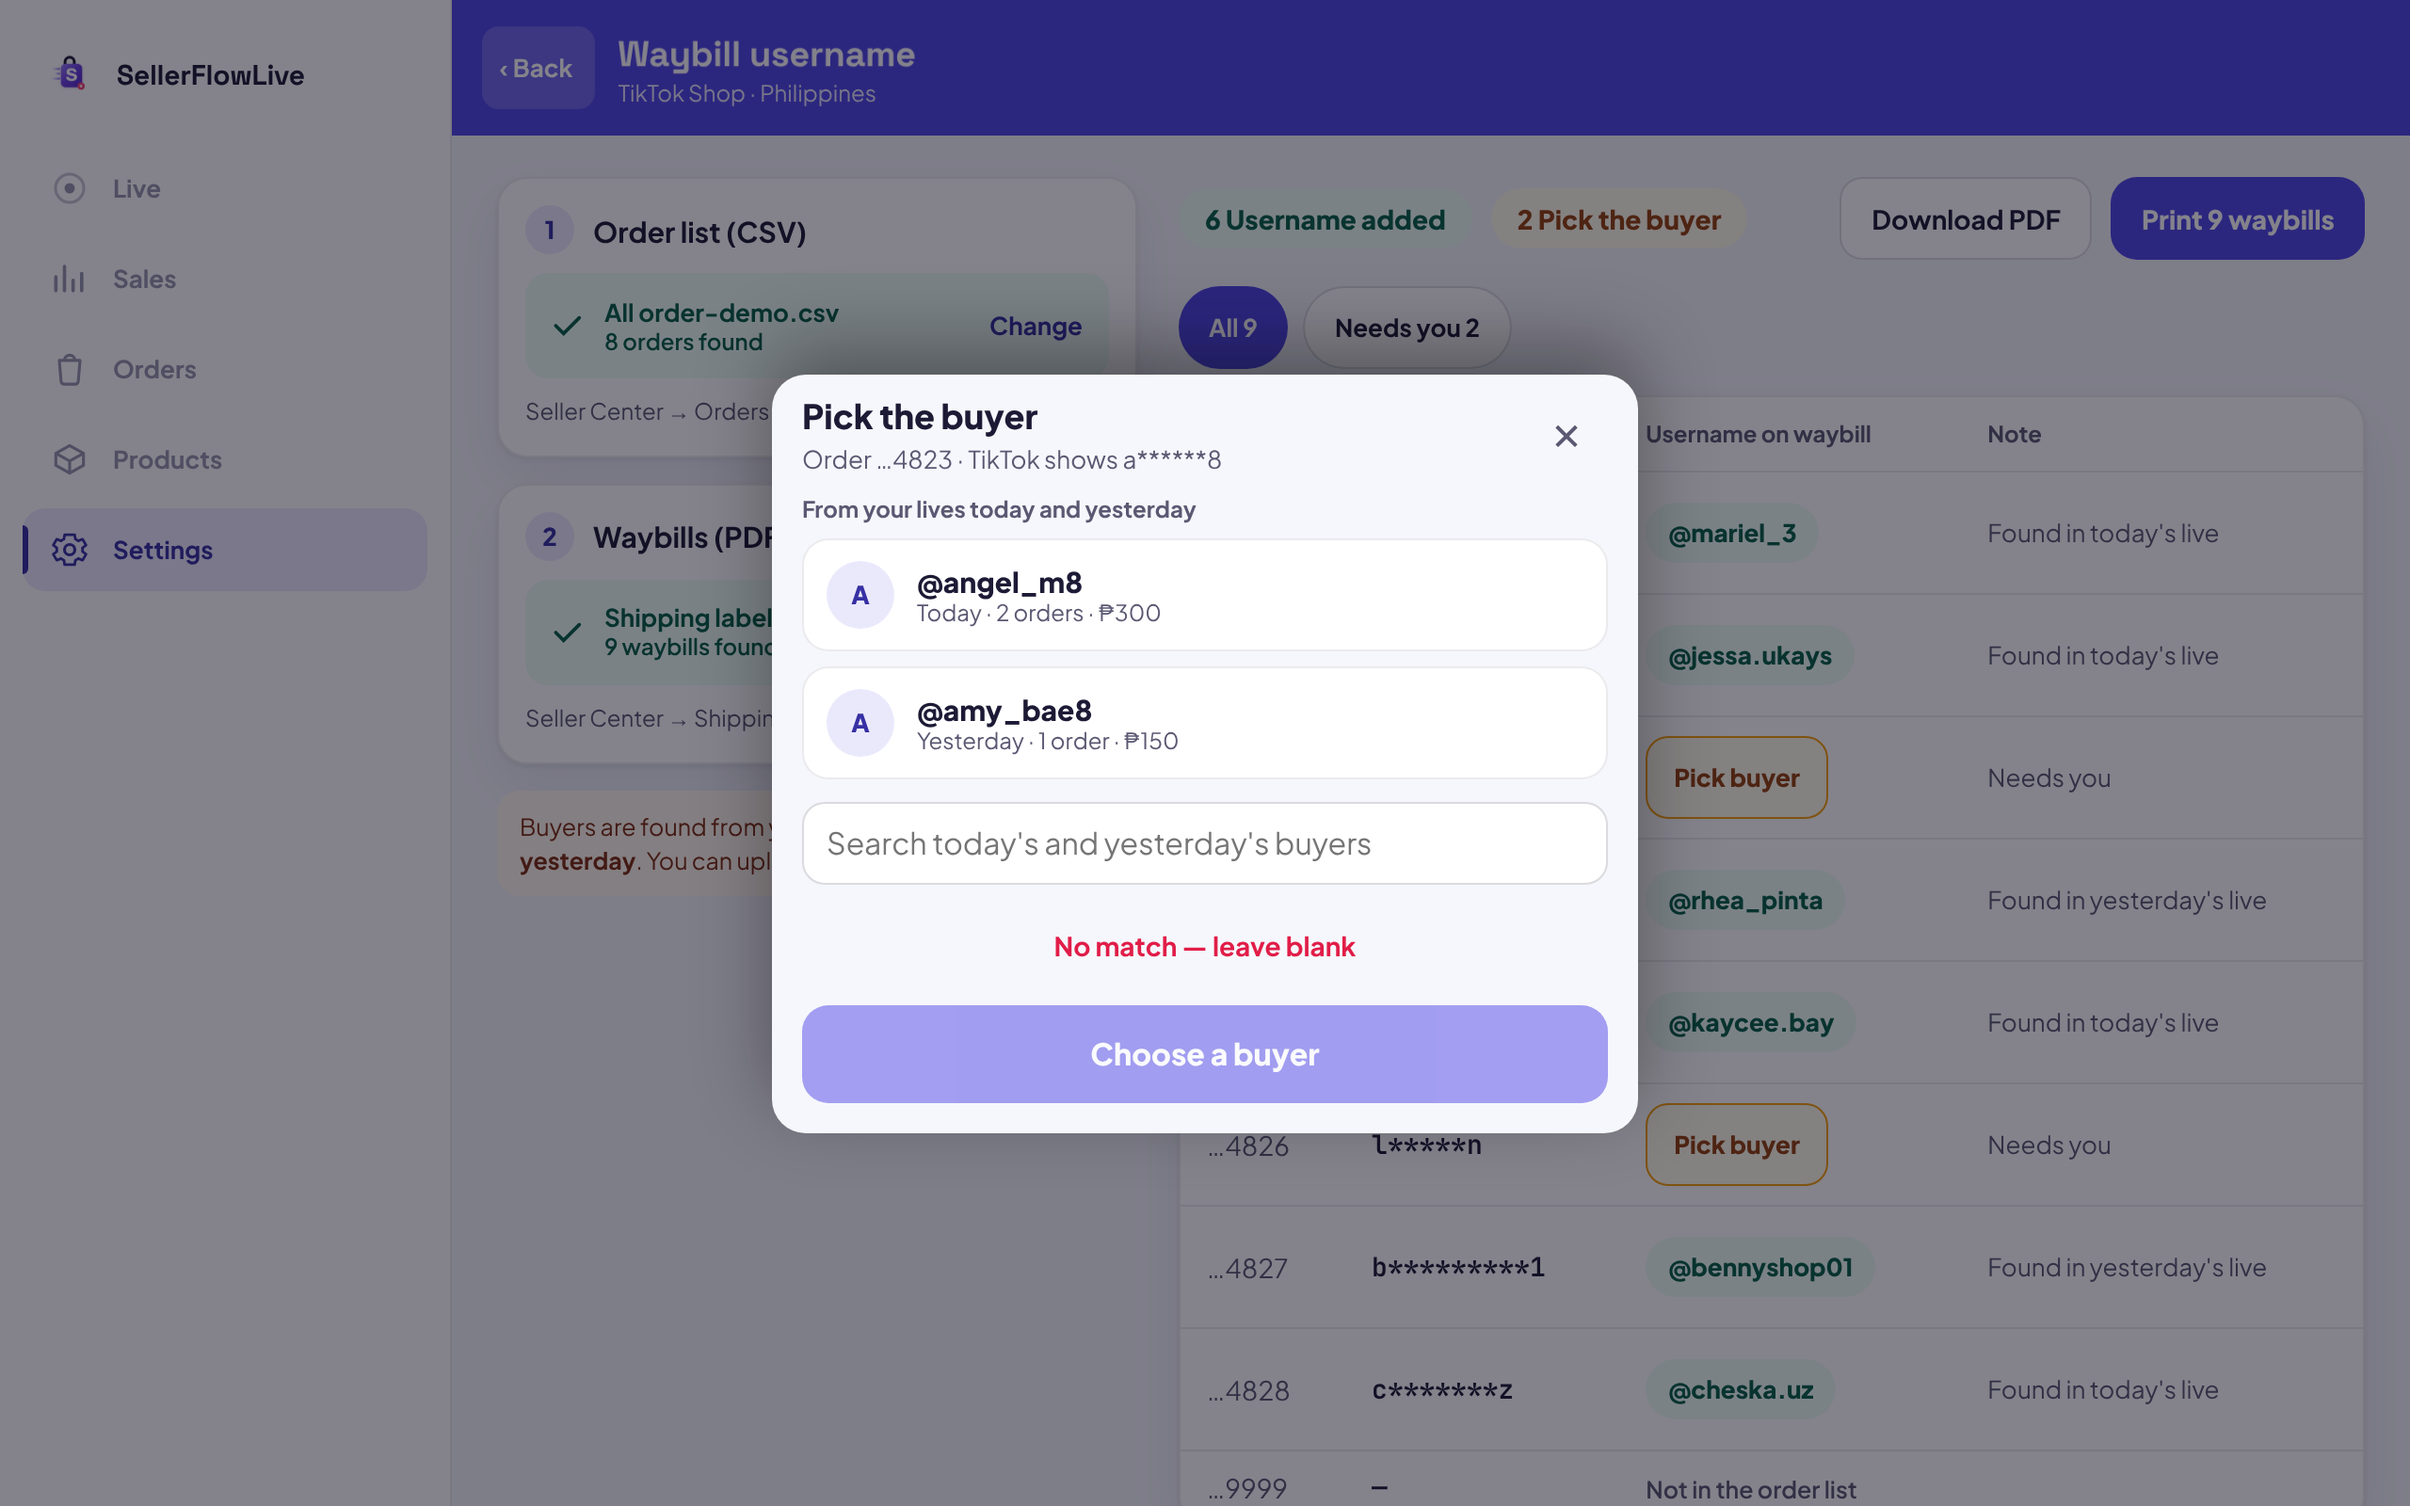
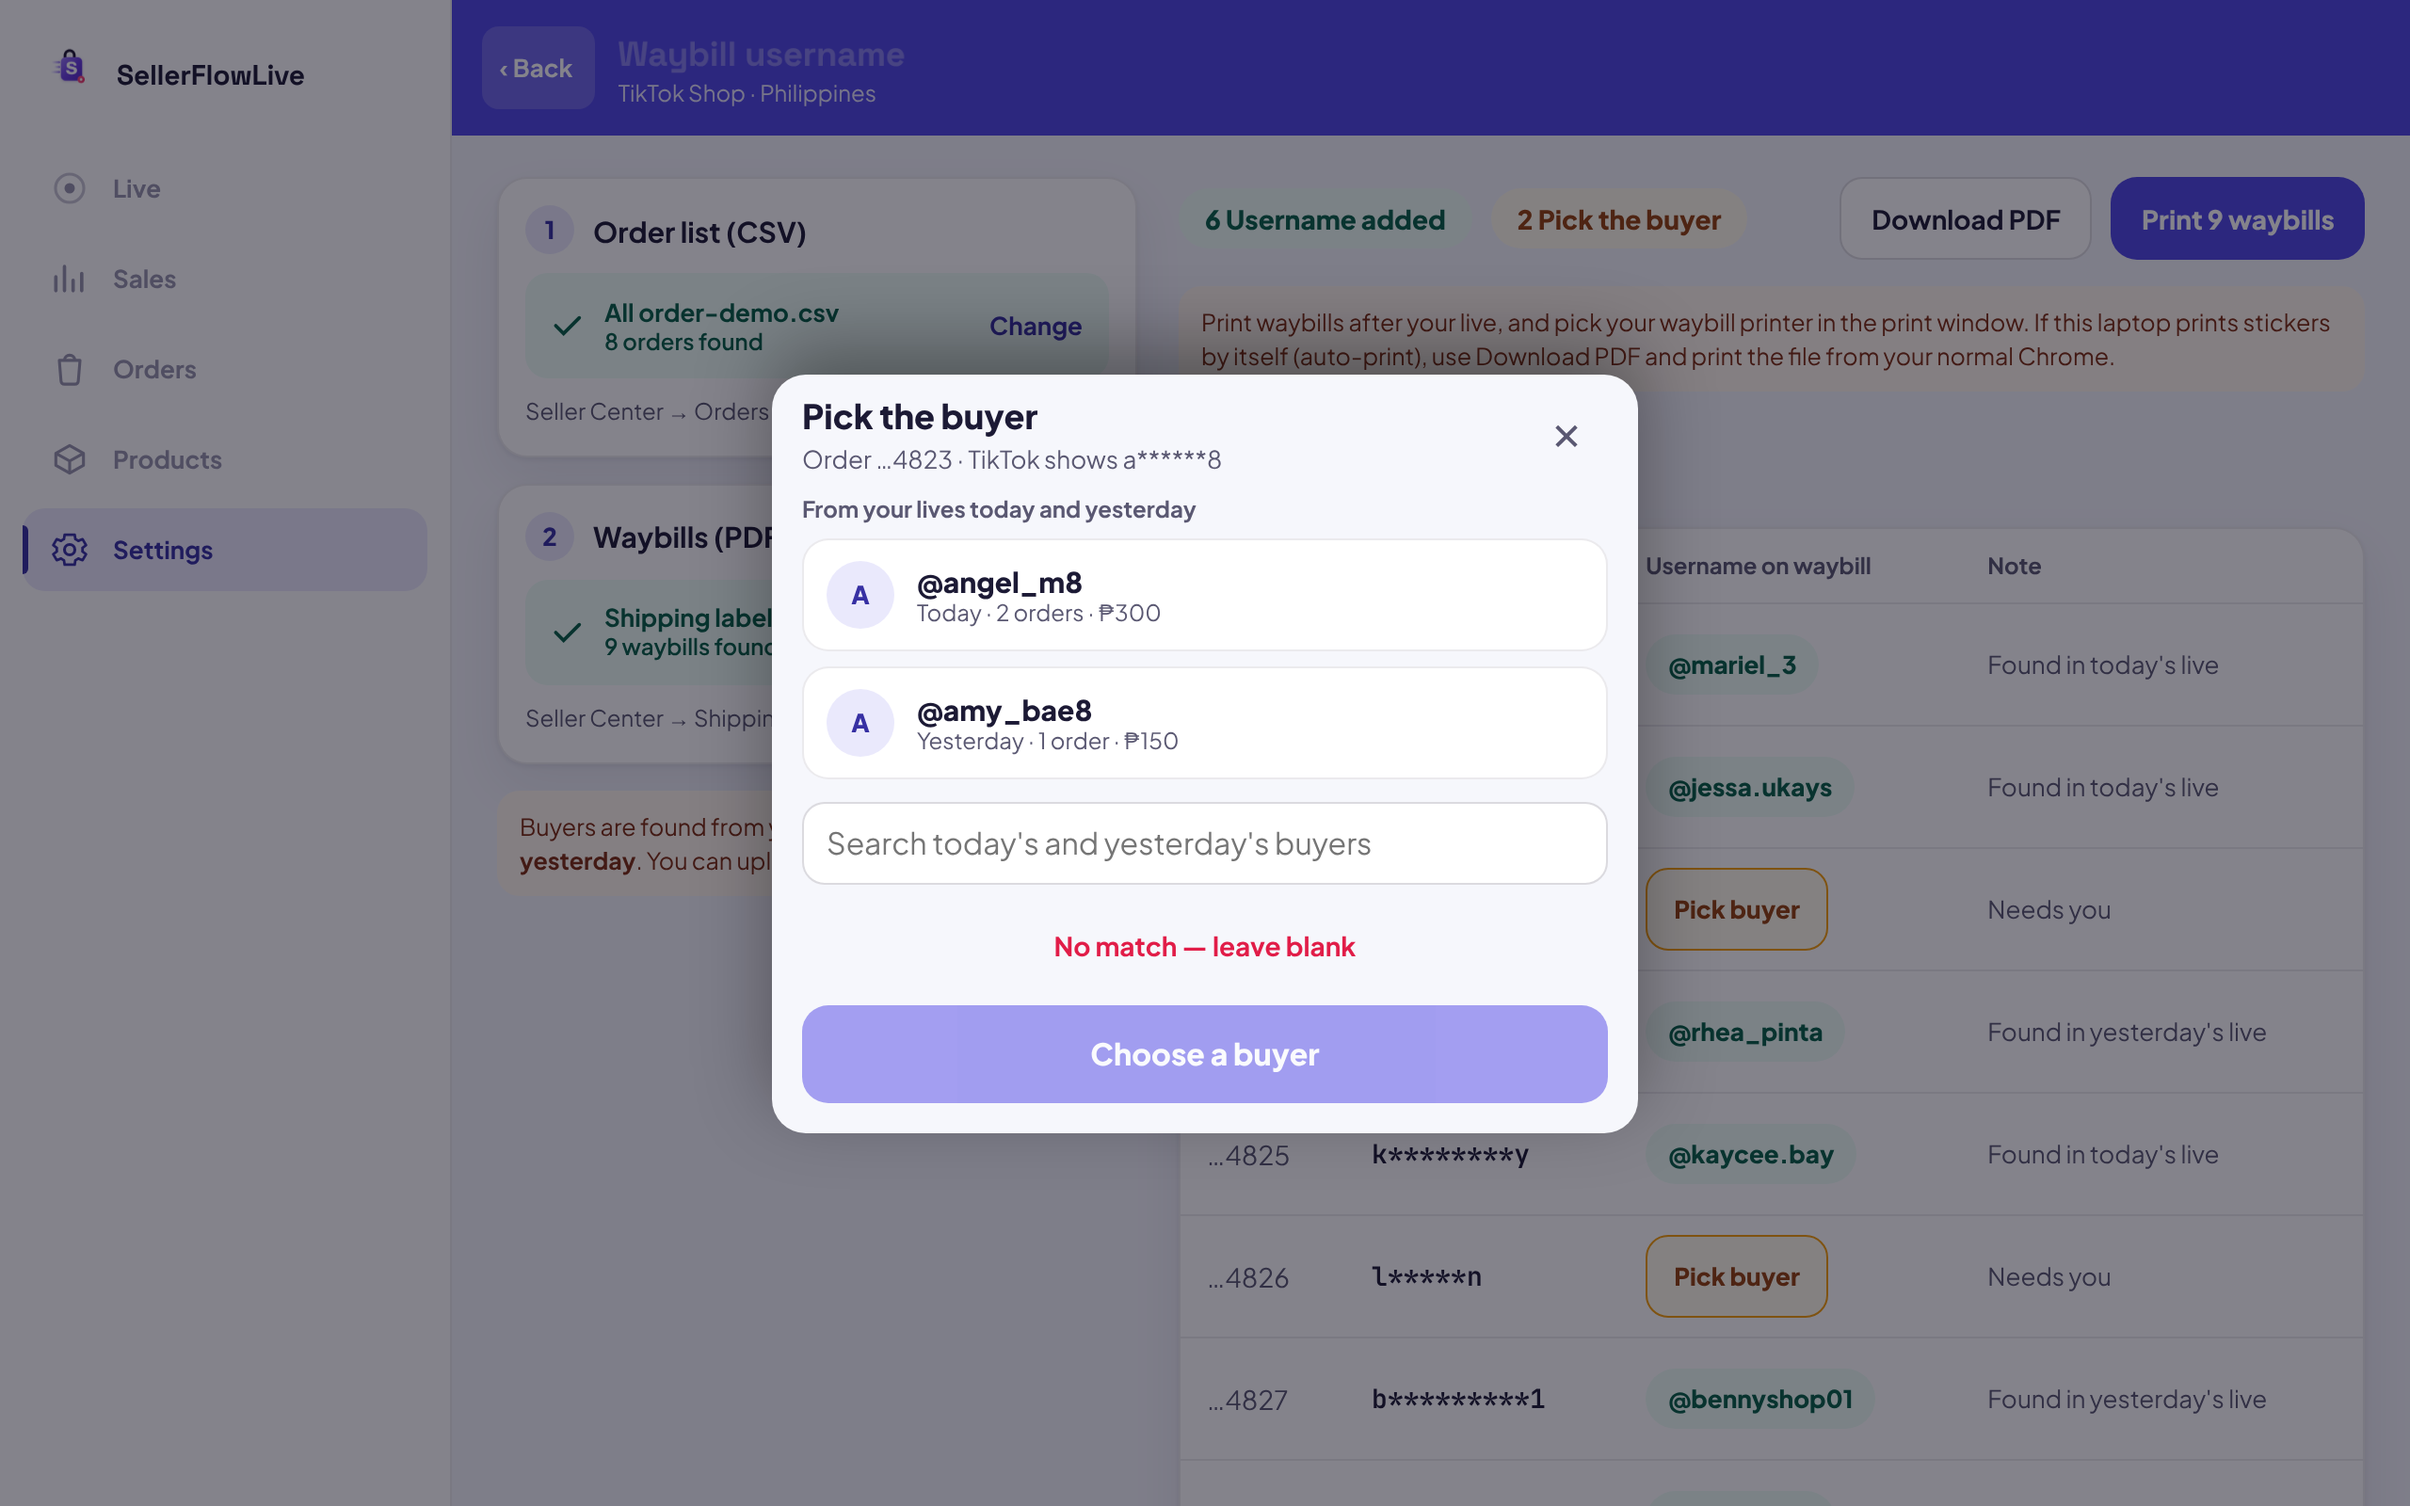
Waybill username: laptop pictures with the Print note, README + project notes
Claude-Session: https://claude.ai/code/session_016eKNVUUa7FKr6iSjbp2Upd

diff --git a/CLAUDE.md b/CLAUDE.md
@@ -7123,8 +7123,10 @@ Design approved by Jeff (claude.ai/artifact/JFCUgRNggFrpmVUa1rQeuz). The seller 
   All / Needs you chips, rows: green @username chip — tap to change — or amber Pick buyer) → "Pick the buyer" sheet (fitting buyers
   first, then a search over all of today's + yesterday's buyers, "No match — leave blank"). Phone: Download PDF = `deliverXlsmMobile`
   (share starts INSIDE the tap; bytes pre-built 250 ms after every change). Laptop (≥ 900 px): upload left / table right, "Print N
-  waybills" (`adapters/waybillOut.printPdf`: hidden iframe → print window, fallback new tab) + "Download PDF". Back on phone results
-  → upload step.
+  waybills" (`adapters/waybillOut.printPdf`: hidden iframe → print window, fallback new tab; one frame at a time; a 3 s double-tap
+  guard) + "Download PDF" + a note (print after the live; on an auto-print / kiosk laptop Print goes SILENTLY to the default =
+  sticker printer → use Download PDF there). No Print button inside the phone / tablet app (Download only). Back on phone results
+  → upload step. Reading a big PDF pauses every 4 pages (a live on the same phone keeps flowing).
 - **Matching (`adapters/waybillMatch.ts`):** TikTok's mask keeps first char + last char + length; every non-`*` position must match,
   case-insensitive, same length; only `*` = never. Candidates = OWN `live_session_orders` rows, platform TikTok, `session_date` in
   [yesterday, today] (Taipei day), ONE paged read (`fetchAllPages`, never partial) when the screen opens + "Try again". Exactly one
@@ -7148,6 +7150,9 @@ Design approved by Jeff (claude.ai/artifact/JFCUgRNggFrpmVUa1rQeuz). The seller 
 - **Fence:** `scripts/waybill-fence.mjs` + `__tests__/waybillUsername.fence.test.ts` (runs on this branch or WAYBILL_GATE=1): every
   printing / sticker / receipt / Bluetooth file, mobile/, server/, server.js, chrome-extension/ byte-identical to f8b90114 (575 files).
   PRINTING_MAP P15 has one line for this path.
+- **Changed on purpose in older tests:** the feature-key list (latest file = sql/231), the switch list, and the admin's 7-11
+  "Shipping" tile (backButton.app, build16.shippingSoon, market.test) — it is inside the SHIPPING group's screen now.
+  Breaks: `docs/design/waybill-username/proof/` (32 of 33; the BOM one can't fail — trim() removes U+FEFF too).
 - **Tests:** waybillCsv / waybillMatch / waybillRows / waybillPdf / waybillGate (adapters), WaybillUsername (screen, real files, the
   phone share inside the tap, the shared PDF read back), waybillUsername.app (real app: off = main for PH/TW/none/VN, PH, TW soon,
   admin + the 7-11 row). Fixtures: `adapters/__tests__/fixtures/waybillFixture.ts` (A6 J&T-shaped PDF, Type0 Identity-H + ToUnicode

diff --git a/docs/design/waybill-username/README.md b/docs/design/waybill-username/README.md
@@ -28,7 +28,9 @@ added the usernames, drawn by pdf.js: `stamped/demo-*.png` (the demo file: 7 use
 order list) and `stamped/long-*.png` (a short and a 24-character username — the long one is made smaller to stay on one line).
 
 ## Proof
-- `proof/breaks.txt` — every rule broken on purpose once; the tests must go red (`proof/breaks.py`).
+- `proof/breaks-run1.txt` + `proof/breaks-run2.txt` — every rule broken on purpose once; the tests must go red
+  (`proof/breaks.py`, `python3 docs/design/waybill-username/proof/breaks.py [words]` runs only matching breaks).
+  32 of 33 caught; the 33rd cannot fail (JavaScript's trim() also removes the byte-order mark — see run 2).
 - Fence: `node scripts/waybill-fence.mjs --check` — every printing / sticker / receipt / Bluetooth file, mobile/, server/,
   server.js, chrome-extension/ are byte-identical to main (f8b90114).
 - SQL: `PGLITE_DIR=… node scripts/sql231-behaviour.mjs` (23 checks), `scripts/sql232-behaviour.mjs` (8 checks).
@@ -47,3 +49,7 @@ The stamped-waybill PNGs were drawn with pdf.js in a scratch folder (pdfjs-dist 
   barcode column starts are taken from the spec + the approved picture. If a real label differs, the app shows
   "Couldn't place the username on this waybill" for that page and prints it as it is (it never covers anything).
 - The laptop print window and the phone share sheet were not run on a real browser / phone.
+- Printer guardian (2026-11-27): no print path changed. Known on a laptop: with the auto-print (kiosk) Chrome,
+  Print goes silently to the default printer (usually the sticker printer) — the laptop screen says to use
+  Download PDF there and to print waybills after the live. Inside the phone / tablet app there is no Print
+  button (Download only).
